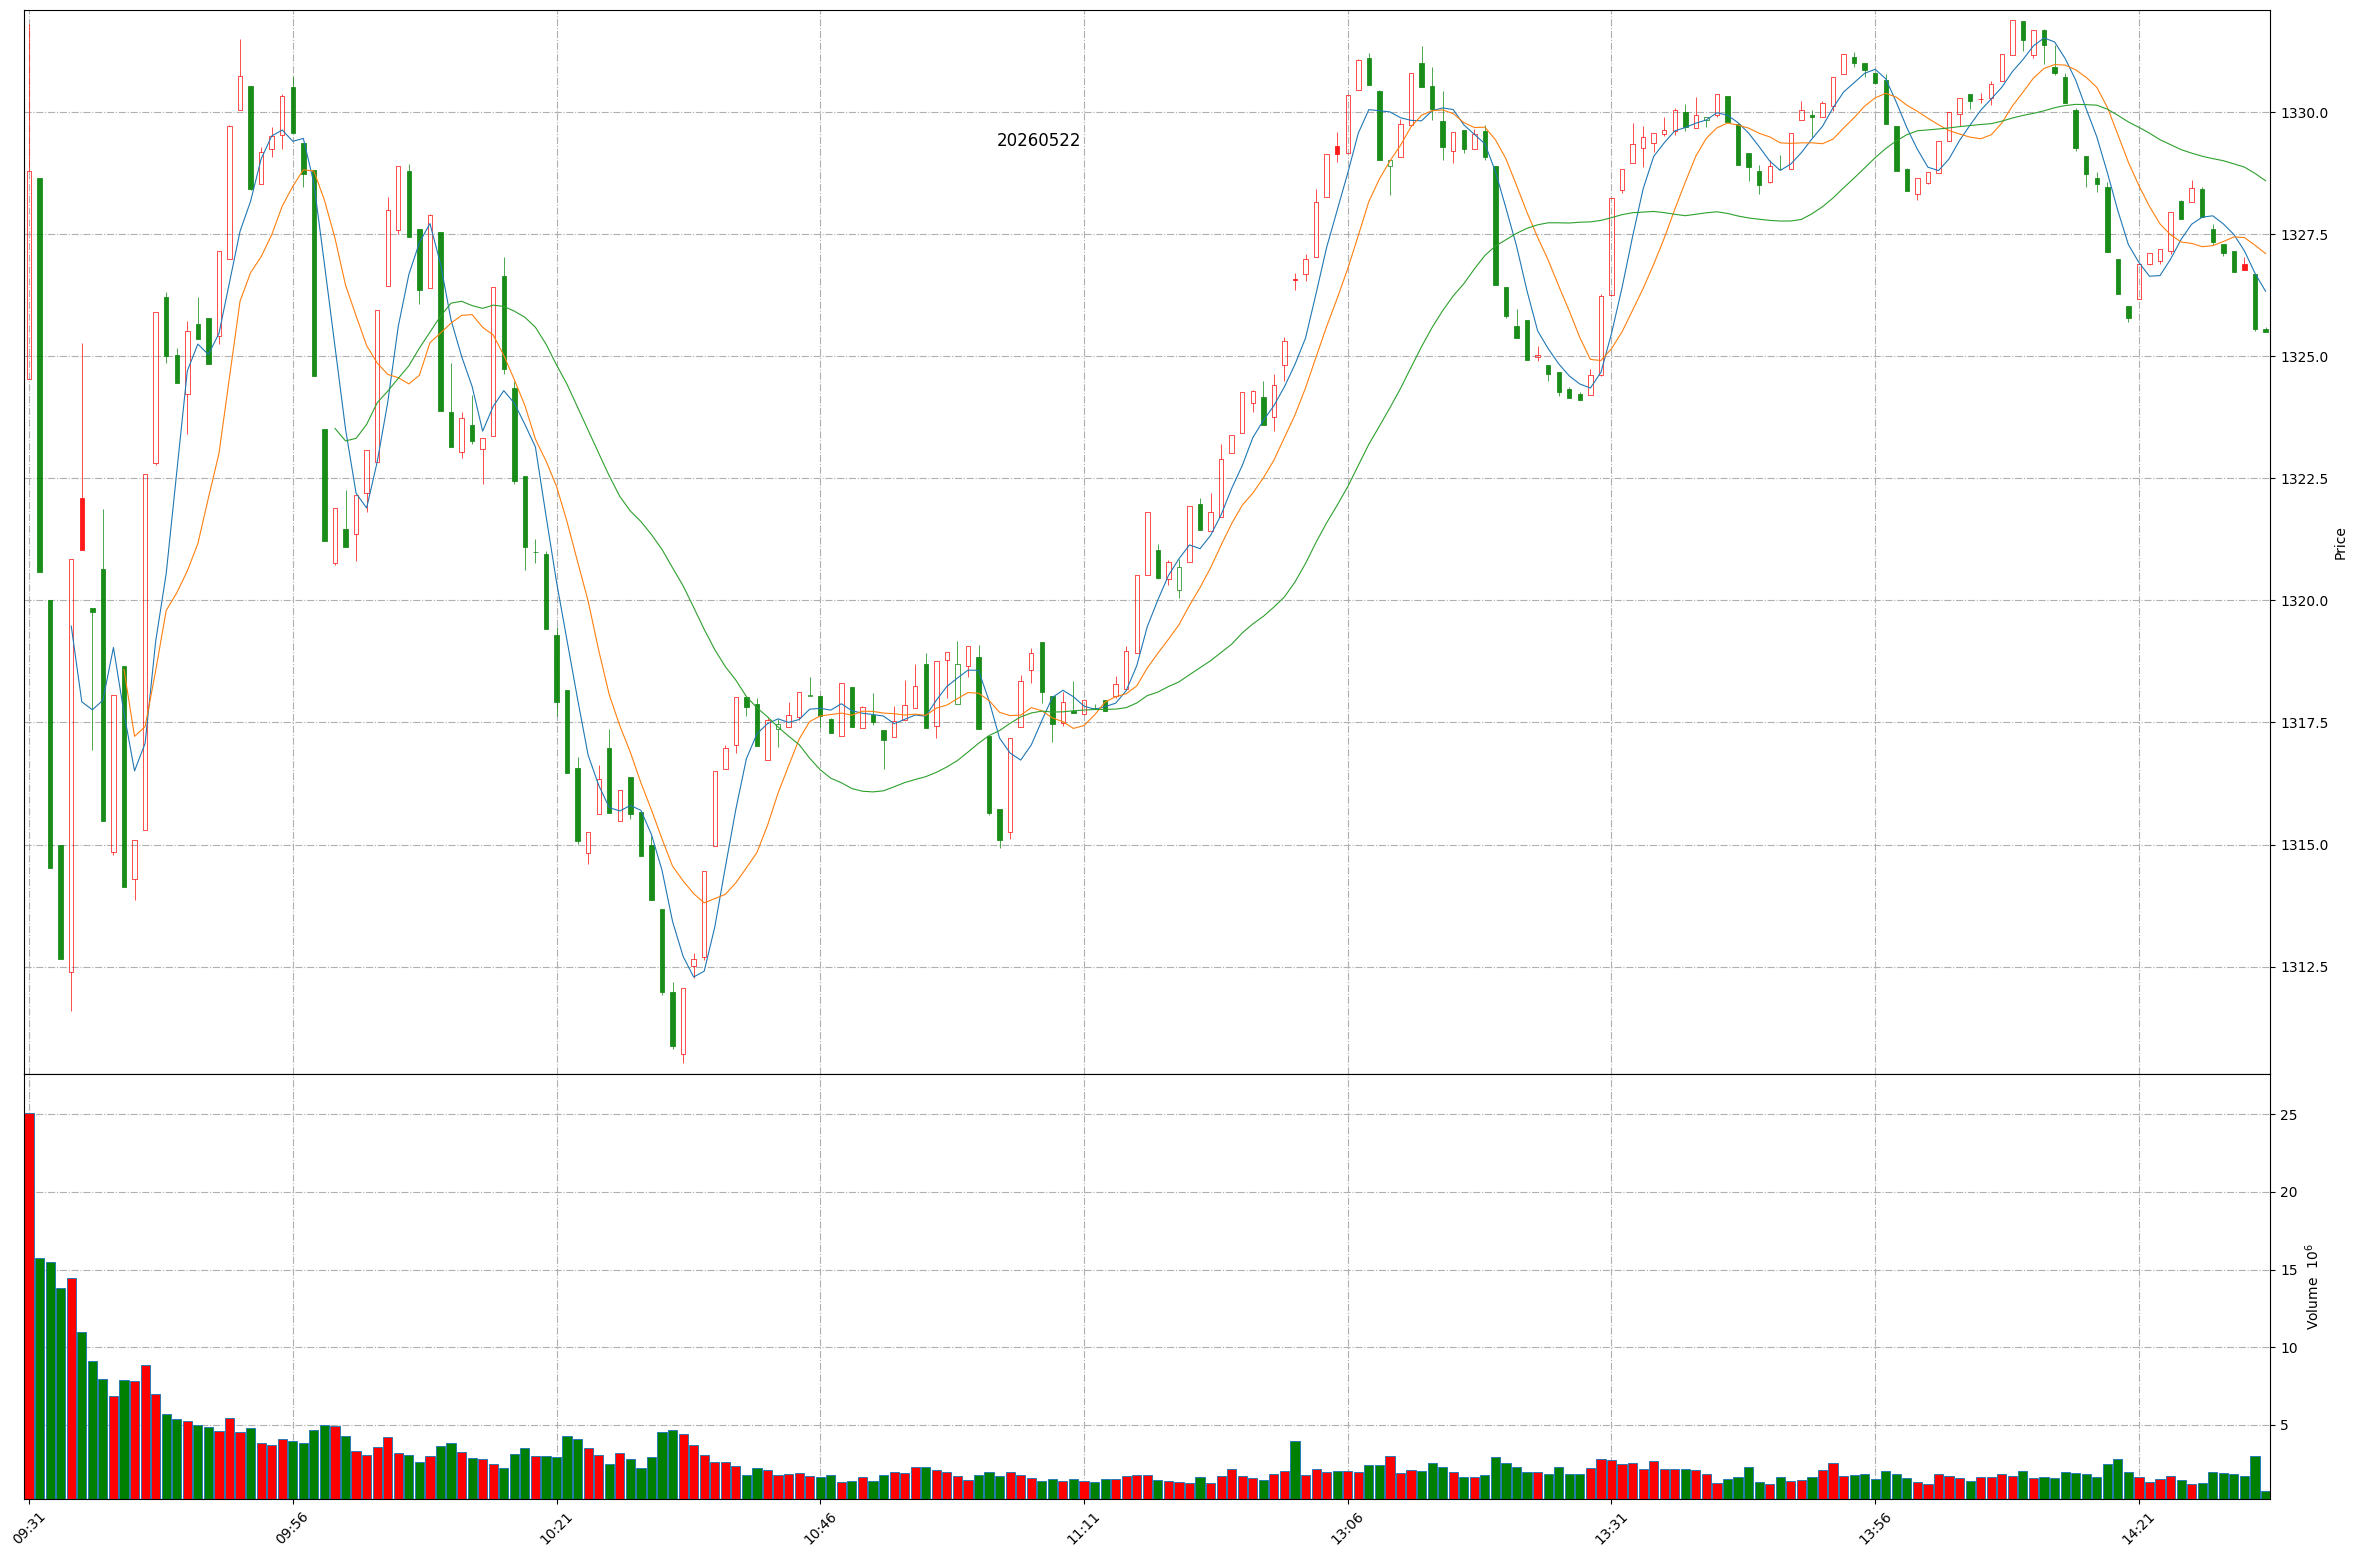
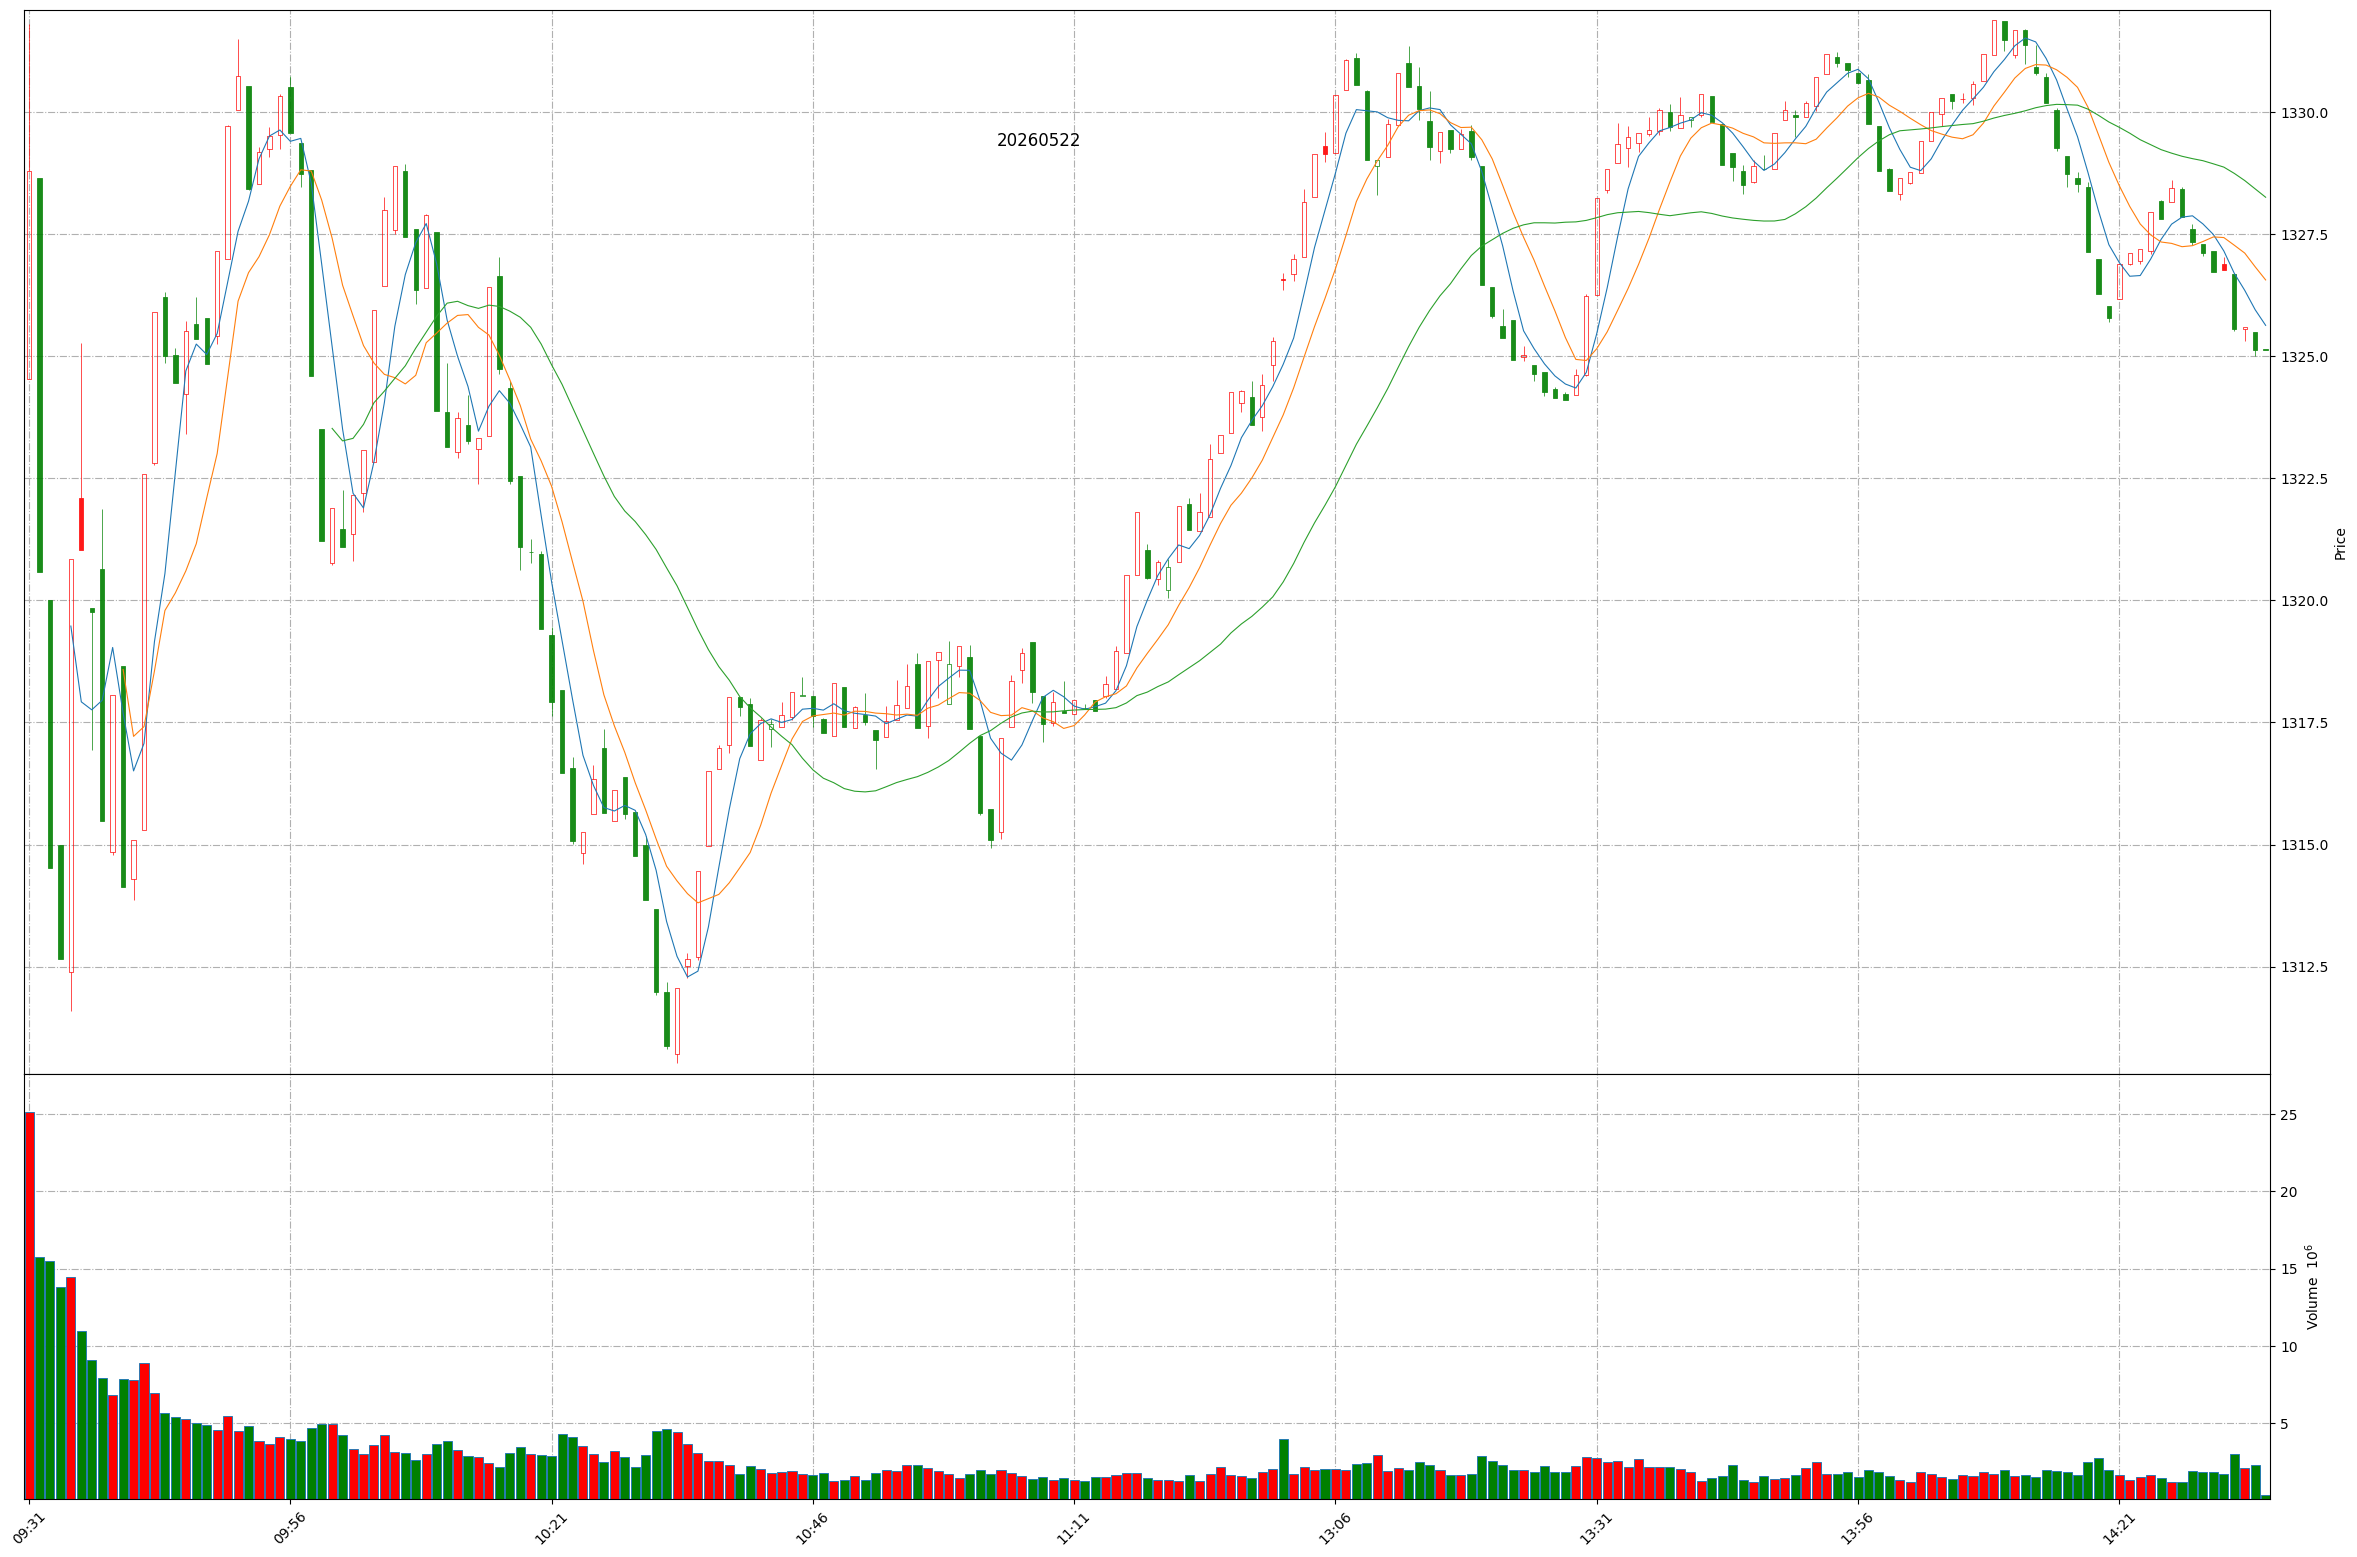
Github action update at 2026-05-22 14:34:27.

diff --git a/README.md b/README.md
@@ -1,11 +1,11 @@
 
 # Daily-A-share-market-quotes 每日 A 股指数（5min 更新）- 20260522
 
-### 上证指数 20260522 14:32
+### 上证指数 20260522 14:34
 ![](./fig/2026/5/20260522-sh000001.png)
 
-### 深证成指 20260522 14:32
+### 深证成指 20260522 14:34
 ![](./fig/2026/5/20260522-sz399001.png)
 
-### 北证50 20260522 14:32
+### 北证50 20260522 14:34
 ![](./fig/2026/5/20260522-bj899050.png)
